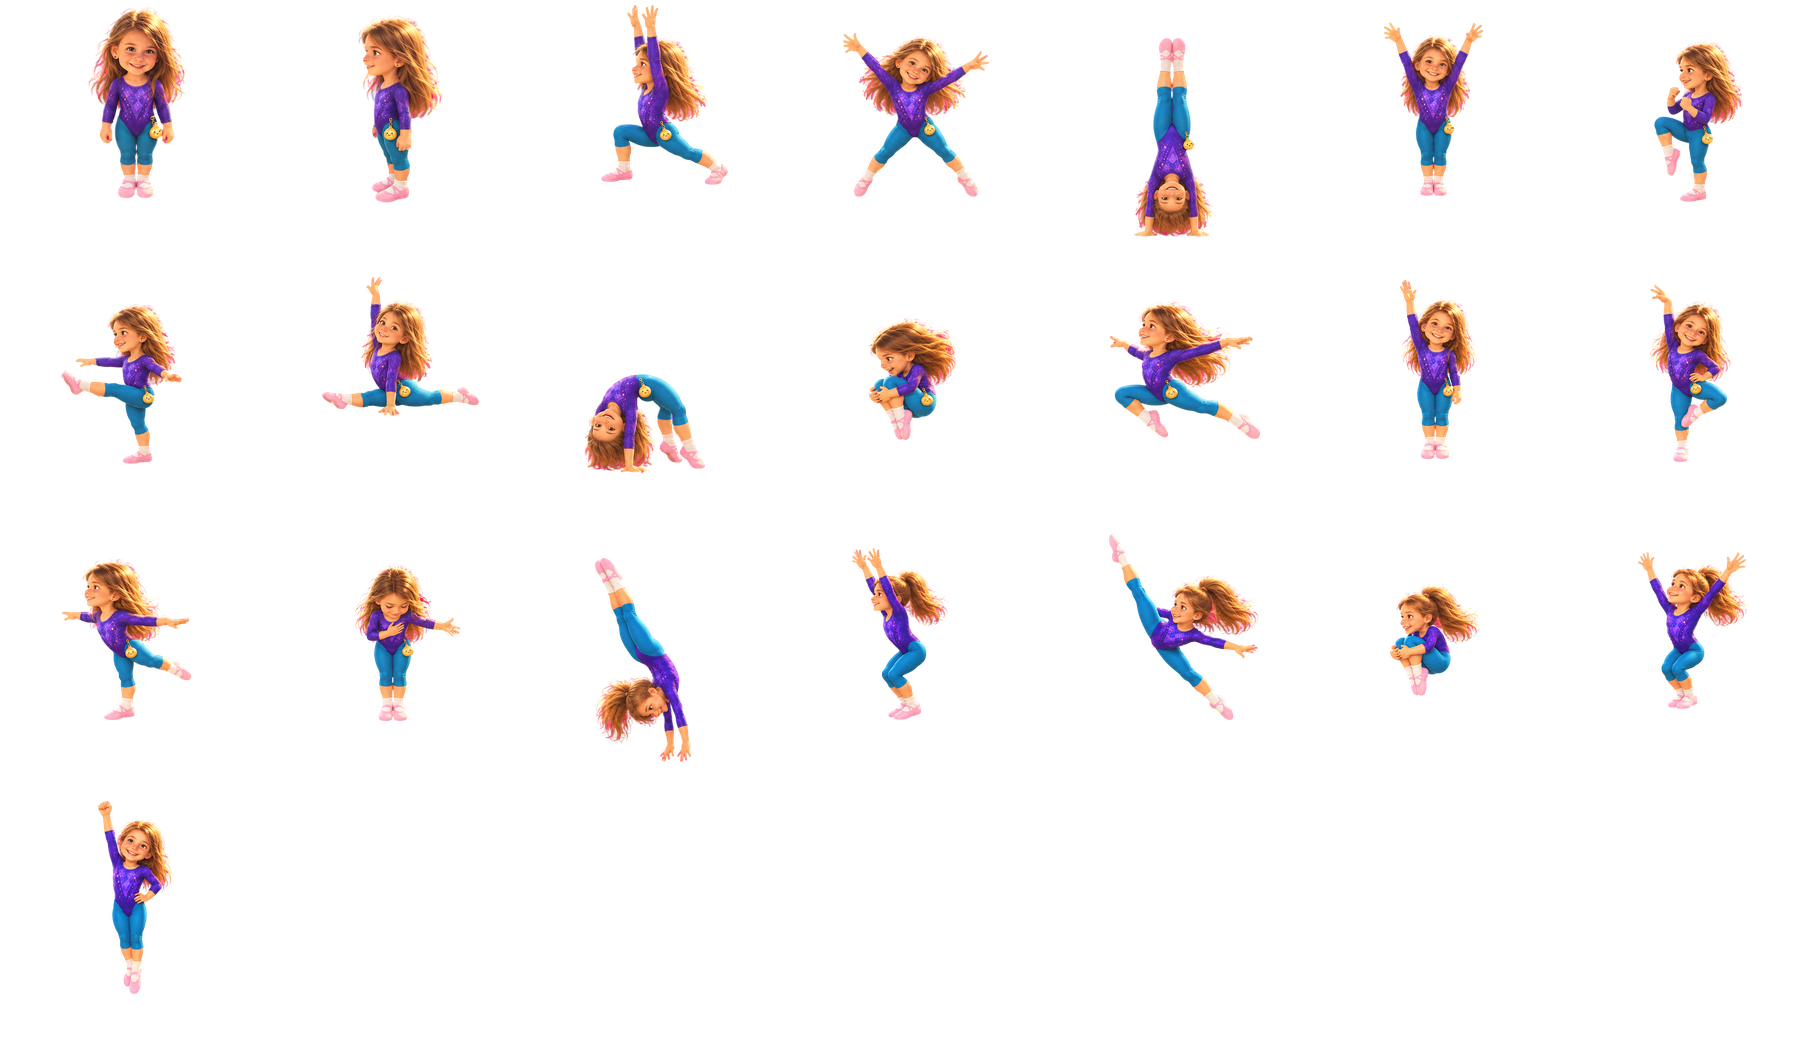
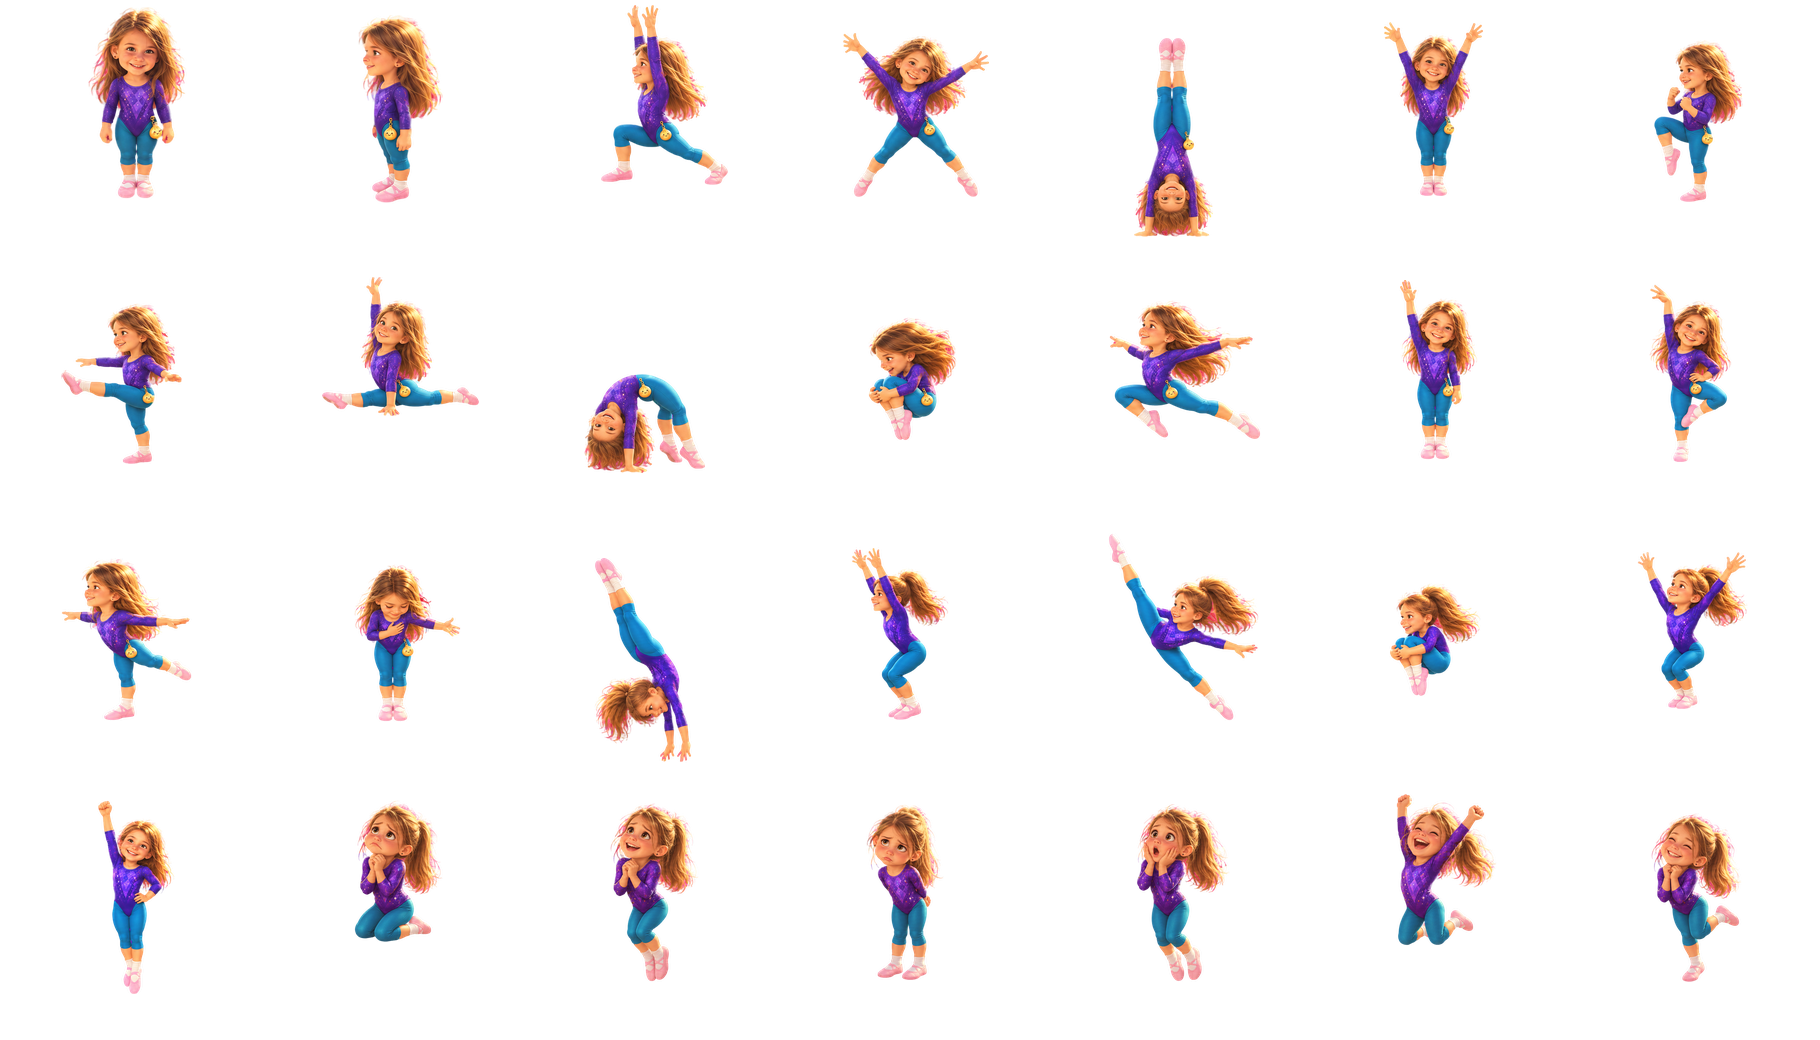
Squishy Delivery: painted begging, gasp, squeal and joy frames for Grace
Claude-Session: https://claude.ai/code/session_01RXeukEJK2LZcX41RZ5rQ6u

diff --git a/data/grace-wheel-hires.js b/data/grace-wheel-hires.js
@@ -1,3 +1,3 @@
 'use strict';
 // data/grace-wheel-hires.js: Grace's painted gymnastics frames, hip at the centre of each frame. GENERATED by tools/sprite-bake/bake_grace_poses.py; do not hand-edit.
-const GRACE_WHEEL_HIRES={"src": "art/chars/grace-wheel.webp", "k": 2, "frame": 260, "rows": 130, "rects": {"stand": [0, 0, 260, 260], "sstand": [260, 0, 260, 260], "lunge": [520, 0, 260, 260], "star": [780, 0, 260, 260], "handstand": [1040, 0, 260, 260], "land": [1300, 0, 260, 260], "chamber": [1560, 0, 260, 260], "kick": [0, 260, 260, 260], "split": [260, 260, 260, 260], "bridge": [520, 260, 260, 260], "tuck": [780, 260, 260, 260], "leap": [1040, 260, 260, 260], "salute": [1300, 260, 260, 260], "dance": [1560, 260, 260, 260], "balance": [0, 520, 260, 260], "bow": [260, 520, 260, 260], "hs_flip": [520, 520, 260, 260], "hs_land": [780, 520, 260, 260], "aerial": [1040, 520, 260, 260], "db_tuck": [1300, 520, 260, 260], "db_stick": [1560, 520, 260, 260], "p10": [0, 780, 260, 260]}, "foot": {"stand": 99, "sstand": 102, "lunge": 93, "star": 99, "handstand": 119, "land": 98, "chamber": 101, "kick": 102, "split": 78, "bridge": 107, "tuck": 90, "leap": 90, "salute": 100, "dance": 101, "balance": 100, "bow": 101, "hs_flip": 121, "hs_land": 100, "aerial": 100, "db_tuck": 88, "db_stick": 95, "p10": 107}};
+const GRACE_WHEEL_HIRES={"src": "art/chars/grace-wheel.webp", "k": 2, "frame": 260, "rows": 130, "rects": {"stand": [0, 0, 260, 260], "sstand": [260, 0, 260, 260], "lunge": [520, 0, 260, 260], "star": [780, 0, 260, 260], "handstand": [1040, 0, 260, 260], "land": [1300, 0, 260, 260], "chamber": [1560, 0, 260, 260], "kick": [0, 260, 260, 260], "split": [260, 260, 260, 260], "bridge": [520, 260, 260, 260], "tuck": [780, 260, 260, 260], "leap": [1040, 260, 260, 260], "salute": [1300, 260, 260, 260], "dance": [1560, 260, 260, 260], "balance": [0, 520, 260, 260], "bow": [260, 520, 260, 260], "hs_flip": [520, 520, 260, 260], "hs_land": [780, 520, 260, 260], "aerial": [1040, 520, 260, 260], "db_tuck": [1300, 520, 260, 260], "db_stick": [1560, 520, 260, 260], "p10": [0, 780, 260, 260], "sq_kneel": [260, 780, 260, 260], "sq_hop": [520, 780, 260, 260], "sq_pout": [780, 780, 260, 260], "sq_gasp": [1040, 780, 260, 260], "sq_squeal": [1300, 780, 260, 260], "sq_joy": [1560, 780, 260, 260]}, "foot": {"stand": 99, "sstand": 102, "lunge": 93, "star": 99, "handstand": 119, "land": 98, "chamber": 101, "kick": 102, "split": 78, "bridge": 107, "tuck": 90, "leap": 90, "salute": 100, "dance": 101, "balance": 100, "bow": 101, "hs_flip": 121, "hs_land": 100, "aerial": 100, "db_tuck": 88, "db_stick": 95, "p10": 107, "sq_kneel": 81, "sq_hop": 101, "sq_pout": 100, "sq_gasp": 101, "sq_squeal": 83, "sq_joy": 101}};

diff --git a/engine/battle2-kind.js b/engine/battle2-kind.js
@@ -302,6 +302,9 @@ SC.tb_rec=(s,u)=>{ const ms=s.t*1000,P=s.plan,k=ez(ms/250)*(ms>P.off?1-ez((ms-P.
   // Thumb over the lens: in at th0, out at th1, a cheeky peek back at pk0..pk1.
   const th=ms<P.th1?ez(seg(ms,P.th0,P.th0+300)):1-ez(seg(ms,P.th1,P.th1+260)),pk=Math.sin(seg(ms,P.pk0,P.pk1)*Math.PI)*.55;
   gfx.globalAlpha=1; thumb(Math.max(th,pk),s.t*5); };
+// Painted Grace pose by name with the drop that puts her feet on the ground (hip-centred frames); null without the painted set.
+const GQ=n=>{ const W=typeof GRACE_WHEEL!=='undefined'&&GRACE_WHEEL,H=typeof GRACE_WHEEL_HIRES!=='undefined'&&GRACE_WHEEL_HIRES,g=BATTLE_SPRITES.grace;
+  if(!W||!W.painted||!H||!H.rects[n]||!g||!g.hires) return null; return {fr:W.painted(n),dy:(H.rows-H.foot[n])*g.scale}; };
 B2_TOMBO_ANIM.grace1=E2=>{ const {tom,pt,fxT,fxP}=E2; B2.aim=null;
   const T=ST.unit(tom),G=ST.unit(pt),list=b2LiveFoes(),GR=ST.group(list);
   const tgt=(E2.targets||[]).find(t=>t.side==='foe')||list.find(f=>f.row==='front')||list[0],F=ST.foe(tgt);
@@ -341,7 +344,10 @@ B2_TOMBO_ANIM.grace1=E2=>{ const {tom,pt,fxT,fxP}=E2; B2.aim=null;
     if(ms<650) { const k=ez(ms/650); x=lerp(c.origX,gx,k); y=lerp(c.origBase,gb,k); f=runFr(sp,c.t,1); }
     else if(ms<P.back) { x=gx; y=gb; f=sp.idle;
       if(ms<P.land&&sp.beg) { f=sp.beg; y+=Math.abs(Math.sin(seg(ms,P.plead0,P.plead1)*Math.PI*6))*-2; }
-      if(ms>P.land&&ms<P.land+1200) { y-=Math.abs(Math.sin(seg(ms,P.land,P.land+1200)*Math.PI*3))*14; f=sp.celeb; } }
+      if(ms>P.land&&ms<P.land+1200) { y-=Math.abs(Math.sin(seg(ms,P.land,P.land+1200)*Math.PI*3))*14; f=sp.celeb; }
+      // painted begging sequence (data/grace-wheel-use.js, sheet C): kneel, hop, pout, kneel, gasp at the box, squeal at the landing, happy bounce
+      if(GQ('sq_kneel')) { const nm=ms<P.land?(ms<1500?'sq_kneel':ms<2100?'sq_hop':ms<2800?'sq_pout':ms<P.box?'sq_kneel':'sq_gasp'):(ms<P.land+600?'sq_squeal':'sq_joy');
+        const q=GQ(nm); f=q.fr; y+=q.dy+(nm==='sq_hop'?-Math.abs(Math.sin(ms/110))*10:0)+(nm==='sq_gasp'?-Math.abs(Math.sin(ms/90))*5:0); } }
     else { const k=ez(seg(ms,P.back,P.back+600)); x=lerp(gx,c.origX,k); y=lerp(gb,c.origBase,k); f=k<1?runFr(sp,c.t,-1):sp.idle; }
     st.gx=x; st.gb=y; return {cx:x,base:y,frame:f}; });
   // Tom: stays put, sighs, shrugs and says fine, then celebrates the landing.

diff --git a/tools/sprite-bake/bake_grace_poses.py b/tools/sprite-bake/bake_grace_poses.py
@@ -6,6 +6,7 @@ Input : tools/sprite-bake/src/grace-poses-a1.png   (11 figures: row 1 lunge star
         tools/sprite-bake/src/grace-walk-v2.png    (front and side standing frames)
         tools/sprite-bake/src/grace-battle-v2.png  (only to measure her size)
         tools/sprite-bake/src/grace-poses-b.png    (1 row: hs_flip hs_land aerial db_tuck db_stick p10)
+        tools/sprite-bake/src/grace-poses-c.png    (1 row, Squishy Delivery: sq_kneel sq_hop sq_pout sq_gasp sq_squeal sq_joy)
 Output: art/chars/grace-wheel.webp   one atlas of FRAME x FRAME px frames, hip at the exact centre of every frame
         data/grace-wheel-hires.js    rects and frame size (generated; do not hand-edit)
 
@@ -30,6 +31,7 @@ FRAME = 260            # atlas px; 130 rows at 2 px per row, drawn at scale 1 (t
 a1 = slice_sheet(os.path.join(SRC, 'grace-poses-a1.png'), [['lunge', 'star', 'handstand', 'land', 'knee', 'kick'], ['split', 'bridge', 'dance_a', 'balance_a', 'bow_a']], robust=True, split_erode=3)
 a2 = slice_sheet(os.path.join(SRC, 'grace-poses-a2.png'), [['tuck', 'leap', 'salute', 'dance', 'balance', 'bow']], robust=True)
 b1 = slice_sheet(os.path.join(SRC, 'grace-poses-b.png'), [['hs_flip', 'hs_land', 'aerial', 'db_tuck', 'db_stick', 'p10']], robust=True)
+c1 = slice_sheet(os.path.join(SRC, 'grace-poses-c.png'), [['sq_kneel', 'sq_hop', 'sq_pout', 'sq_gasp', 'sq_squeal', 'sq_joy']], robust=True)
 walk_names = [f'{d}_{n}' for d in ('down', 'up', 'left') for n in ('stand', 'step1', 'stand2', 'step2')]
 wk = slice_sheet(os.path.join(SRC, 'grace-walk-v2.png'), [walk_names[0:4], walk_names[4:8], walk_names[8:12]], robust=True)
 bt = slice_sheet(os.path.join(SRC, 'grace-battle-v2.png'), [['idle', 'windup', 'strike', 'run1', 'run2', 'leap'], ['hurt', 'kneel', 'ko', 'win', 'defend', 'cast']], robust=True)
@@ -62,6 +64,7 @@ BATTLE_F = 80 * 2 / bt['idle'].height
 f_of = {'a1': BATTLE_F * REF / teal_h(a1['land']),
         'a2': BATTLE_F * REF / teal_h(a2['salute']),
         'b': BATTLE_F * REF / teal_h(b1['hs_land']) * float(os.environ.get('BFIX', '1')),
+        'c': BATTLE_F * REF / teal_h(c1['sq_pout']) * float(os.environ.get('CFIX', '1')),
         'wk': BATTLE_F * REF / teal_h(wk['down_stand'])}
 print('scale factors', {k: round(v, 3) for k, v in f_of.items()}, 'battle', round(BATTLE_F, 3))
 
@@ -71,7 +74,9 @@ order = [('stand', wk['down_stand'], 'wk'), ('sstand', wk['left_stand'], 'wk'),
          ('tuck', a2['tuck'], 'a2'), ('leap', a2['leap'], 'a2'), ('salute', a2['salute'], 'a2'), ('dance', a2['dance'], 'a2'),
          ('balance', a2['balance'], 'a2'), ('bow', a2['bow'], 'a2'),
          ('hs_flip', b1['hs_flip'], 'b'), ('hs_land', b1['hs_land'], 'b'), ('aerial', b1['aerial'], 'b'),
-         ('db_tuck', b1['db_tuck'], 'b'), ('db_stick', b1['db_stick'], 'b'), ('p10', b1['p10'], 'b')]
+         ('db_tuck', b1['db_tuck'], 'b'), ('db_stick', b1['db_stick'], 'b'), ('p10', b1['p10'], 'b'),
+         ('sq_kneel', c1['sq_kneel'], 'c'), ('sq_hop', c1['sq_hop'], 'c'), ('sq_pout', c1['sq_pout'], 'c'),
+         ('sq_gasp', c1['sq_gasp'], 'c'), ('sq_squeal', c1['sq_squeal'], 'c'), ('sq_joy', c1['sq_joy'], 'c')]
 
 frames, hips = {}, {}
 for nm, im, sh in order:

diff --git a/docs/CHANGES.md b/docs/CHANGES.md
@@ -540,3 +540,6 @@ Known: Dot says "ten doors" (should be eleven); ch15 QUIET glyphs; ch17_test pre
 
 ## Grace sheet B poses (2026-10-29)
 Painted frames for her level-5 moves (src tools/sprite-bake/src/grace-poses-b.png, baked by bake_grace_poses.py into art/chars/grace-wheel.webp): hs_flip, hs_land, aerial, db_tuck, db_stick, p10. Handspring, Beam Dismount and Perfect 10 now draw them (engine/battle-draw.js, gw()); `aerial` is baked but not wired yet. Perfect 10 ends on the p10 pose (fx.p10).
+
+## Squishy Delivery painted begging sequence (2026-10-29)
+Sheet C (tools/sprite-bake/src/grace-poses-c.png) baked into the wheel atlas: sq_kneel, sq_hop, sq_pout, sq_gasp, sq_squeal, sq_joy. B2_TOMBO_ANIM.grace1 (engine/battle2-kind.js, GQ helper) plays kneel, hop, pout, kneel, gasp at the gift box, squeal on the landing, then a happy bounce. Falls back to the old kneel and celebrate frames if the painted set is missing.
